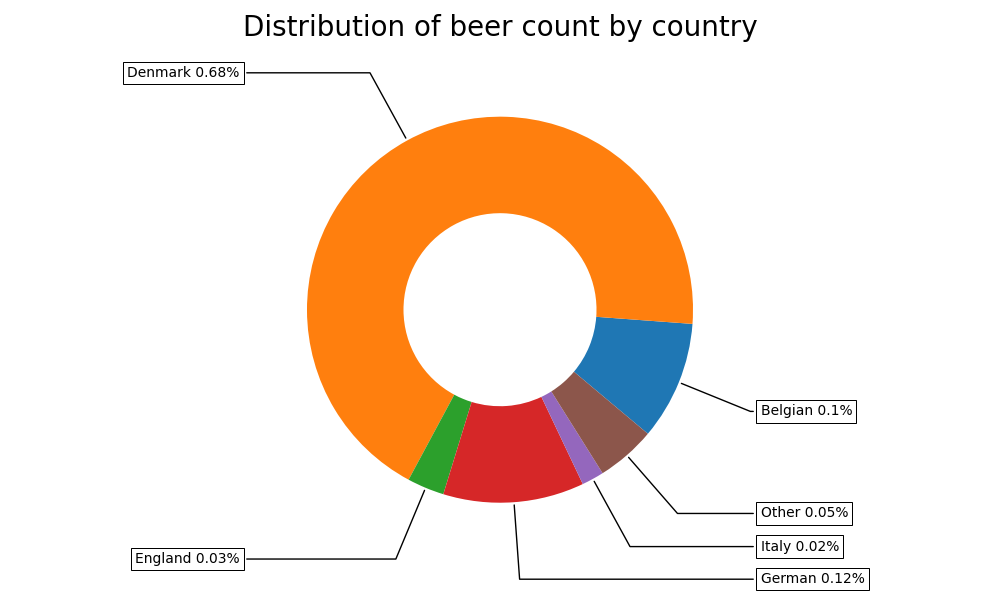
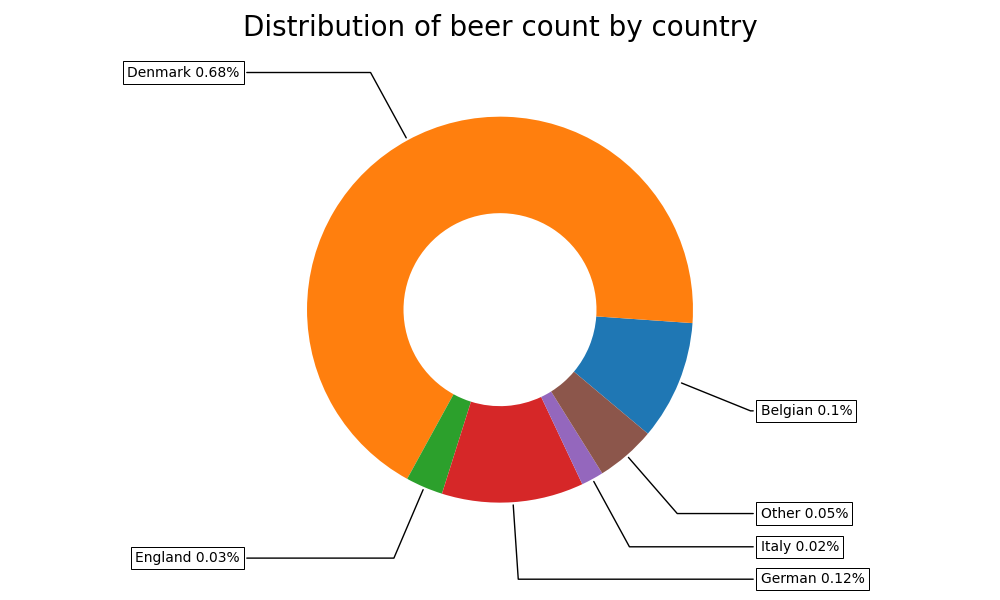
I am satisfied with this version

diff --git a/projectBeer/app.py b/projectBeer/app.py
@@ -135,7 +135,7 @@ def brew():
         SELECT 
             country,
             print
-        FROM country_table;
+        FROM {BEER_SCHEMA}.country_table;
     '''
     
     # Execute the queries
